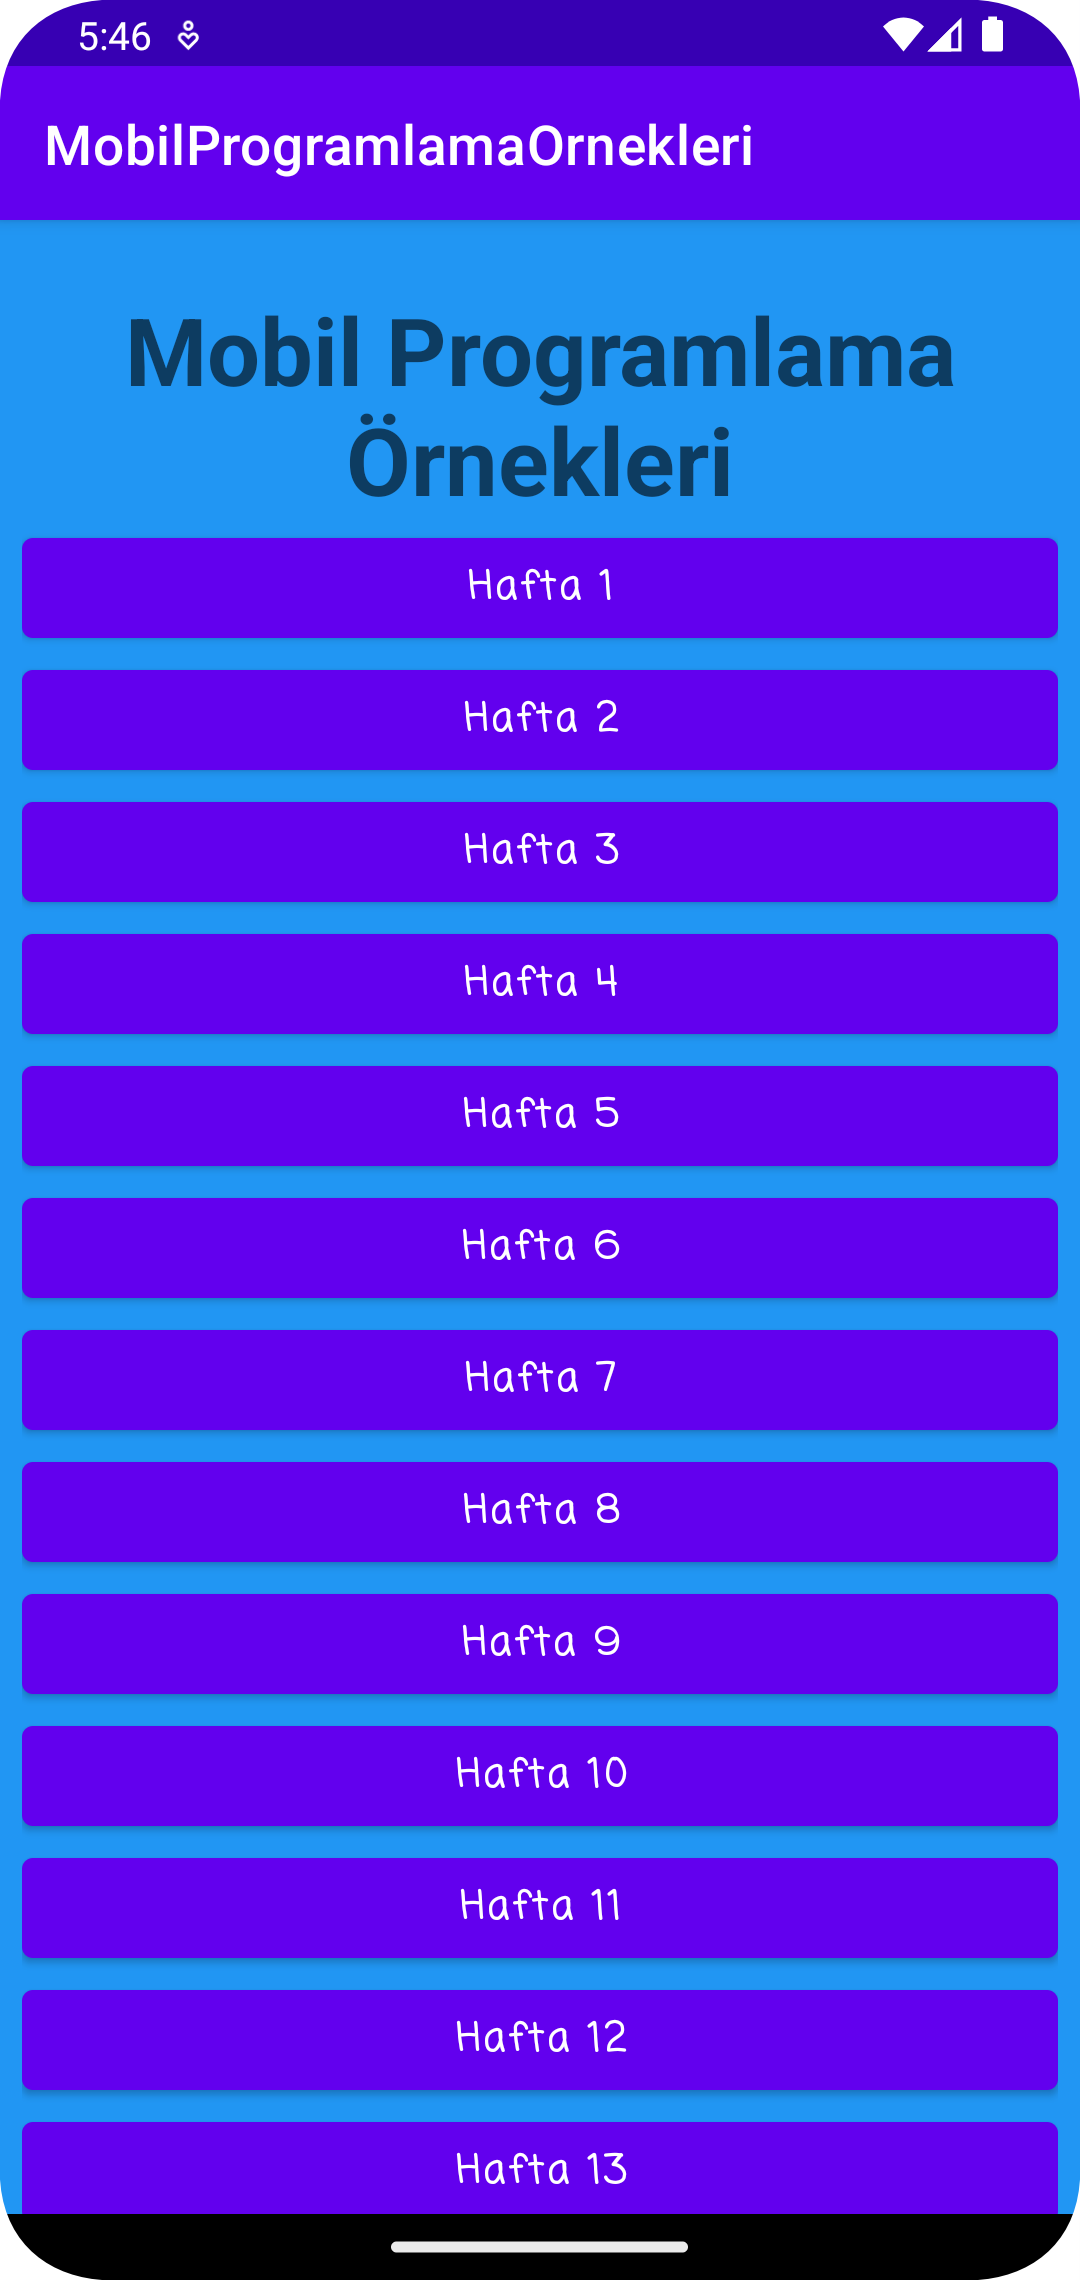
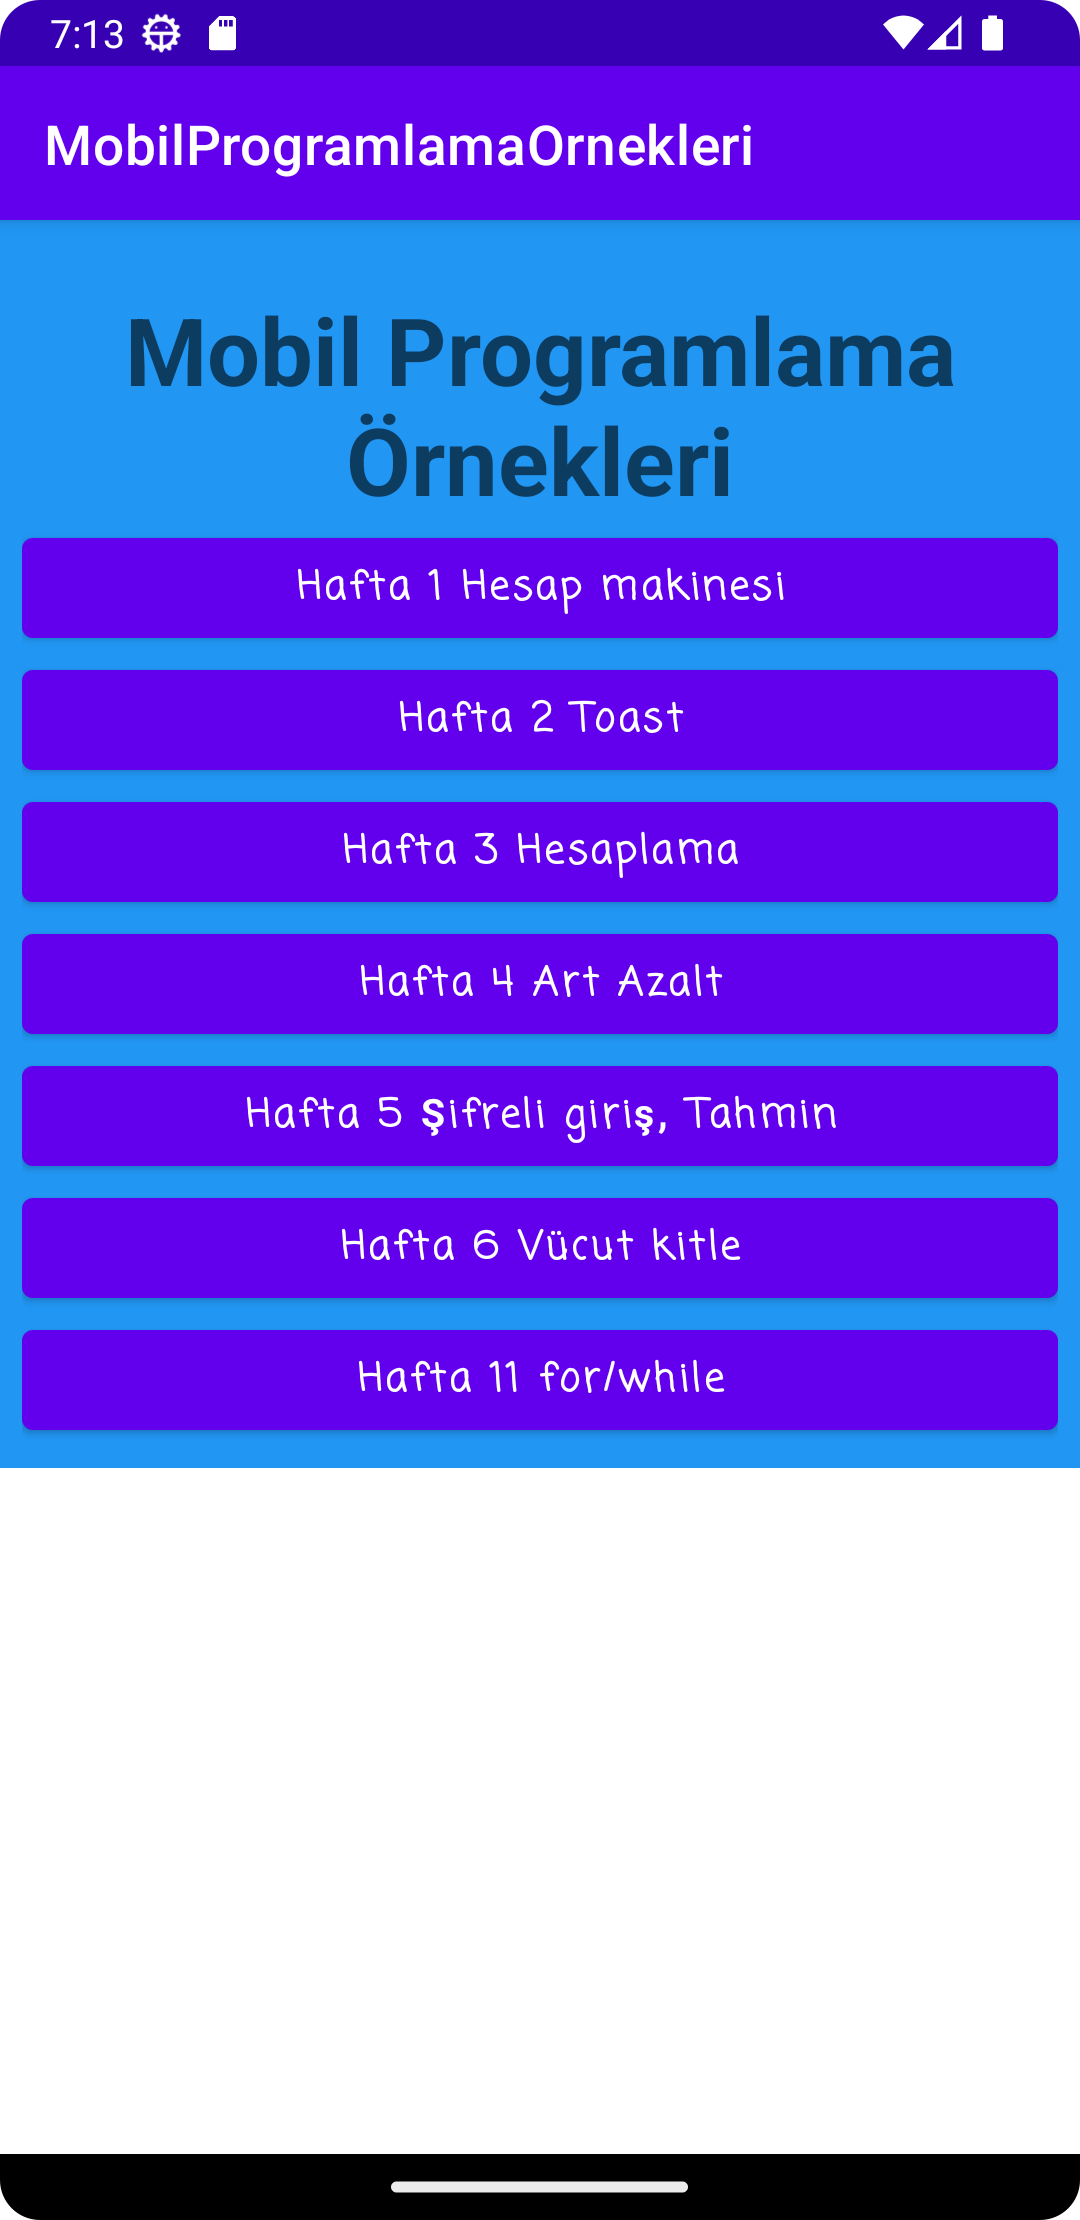
h11 eklendi
ana sayfa ve h11 düzenlendi

diff --git a/app/src/main/java/com/example/mobilprogramlamaornekleri/MainActivity11.java b/app/src/main/java/com/example/mobilprogramlamaornekleri/MainActivity11.java
@@ -1,0 +1,73 @@
+package com.example.mobilprogramlamaornekleri;
+
+import androidx.appcompat.app.AppCompatActivity;
+
+import android.os.Bundle;
+import android.view.View;
+import android.widget.EditText;
+import android.widget.TextView;
+
+public class MainActivity11 extends AppCompatActivity {
+    TextView sayi, carp, forLabel;
+    EditText say1, say2, say3;
+
+    @Override
+    protected void onCreate(Bundle savedInstanceState) {
+        super.onCreate(savedInstanceState);
+        setContentView(R.layout.activity_main11);
+    }
+
+    public void saydır(View V) {
+        // 1. ÖRNEK
+        sayi = findViewById(R.id.textView);  // 1.ÖRNEK
+        sayi.setText(""); //önce içini temizleyelim
+        for (int i = 0; i <= 10; i++) {
+            sayi.setText(sayi.getText().toString() + " " + i);
+            // i, j, k, l eski alışkanlık
+        }
+    }
+
+    public void carpim(View view) {
+        // 2. ÖRNEK
+        carp = findViewById(R.id.textView2);  // 2.ÖRNEK
+        carp.setText(""); //önce içini temizleyelim
+        for (int i = 1; i <= 5; i++) {
+            carp.setText(carp.getText().toString() + "\n" + i + " x 5 =" + i * 5);
+            // i, j, k, l eski alışkanlık
+        }
+    }
+
+    public void forBB(View view) {
+        // 3. ÖRNEK
+        say1 = findViewById(R.id.editTextTextPersonName);
+        say2 = findViewById(R.id.editTextNumber);
+        say3 = findViewById(R.id.editTextNumber2);
+        forLabel = findViewById(R.id.textView3); //3.ÖRNEK
+        forLabel.setText(""); //önce içini silelim
+        if (Integer.parseInt(say1.getText().toString()) < Integer.parseInt(say2.getText().toString()))
+            for (int i = Integer.parseInt(say1.getText().toString());
+                 i <= Integer.parseInt(say2.getText().toString());
+                 i += Integer.parseInt(say3.getText().toString())) {
+                forLabel.setText(forLabel.getText().toString() + " " + i);
+            }
+        else
+            for (int i = Integer.parseInt(say1.getText().toString());
+                 i >= Integer.parseInt(say2.getText().toString());
+                 i -= Integer.parseInt(say3.getText().toString())) {
+                forLabel.setText(forLabel.getText().toString() + " " + i);
+            }
+    }
+
+    public void whileIle(View view) {
+        //4. ÖRNEK
+        TextView sonuc = findViewById(R.id.textView4);
+
+        sonuc.setText("");
+        int sayac = 0;    //başlangıç
+        while (sayac <= 10) {
+            sonuc.setText(sonuc.getText().toString() + " " + sayac);
+            sayac++;
+        }
+    }
+}
+

diff --git a/app/src/main/java/com/example/mobilprogramlamaornekleri/MainActivity.java b/app/src/main/java/com/example/mobilprogramlamaornekleri/MainActivity.java
@@ -5,6 +5,7 @@ import androidx.appcompat.app.AppCompatActivity;
 import android.content.Intent;
 import android.os.Bundle;
 import android.view.View;
+import android.widget.Toast;
 
 public class MainActivity extends AppCompatActivity {
 
@@ -18,24 +19,34 @@ public class MainActivity extends AppCompatActivity {
         Intent i = new Intent(this, MainActivityH1.class);
         startActivity(i);
     }
+
     public void h2(View view) {
         Intent i = new Intent(this, MainActivityH2.class);
         startActivity(i);
     }
+
     public void h3(View view) {
         Intent i = new Intent(this, MainActivityH3.class);
         startActivity(i);
     }
+
     public void h4(View view) {
         Intent i = new Intent(this, MainActivityH4.class);
         startActivity(i);
     }
+
     public void h5(View view) {
         Intent i = new Intent(this, MainActivityH5.class);
         startActivity(i);
     }
+
     public void h6(View view) {
         Intent i = new Intent(this, MainActivityH6.class);
+        startActivity(i);
+    }
+
+    public void h11(View view) {
+        Intent i = new Intent(this, MainActivity11.class);
         startActivity(i);
     }
 }
